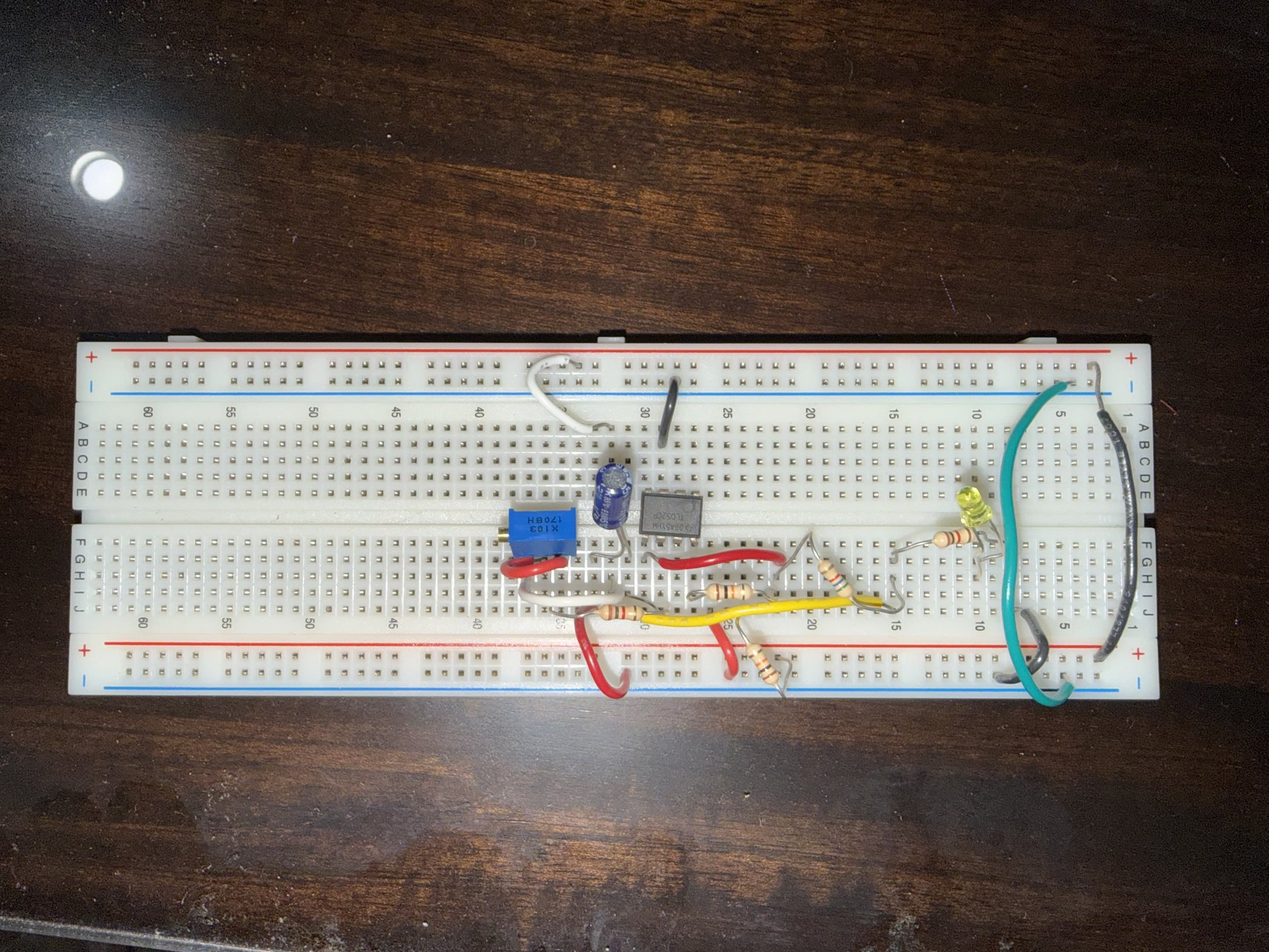
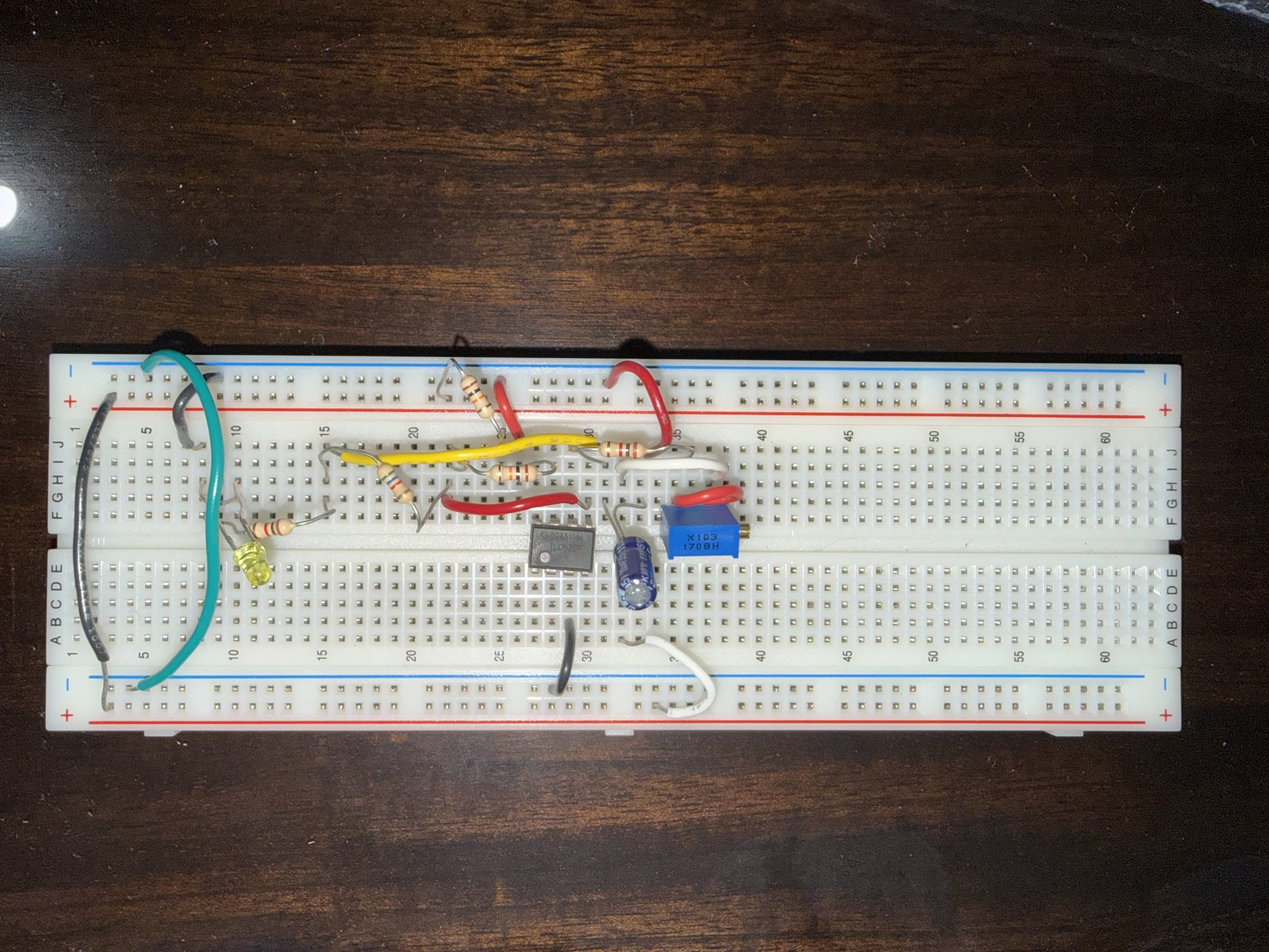
Thandi's board upload: the real broken board, fix and Edison's answers (#17)
Uploading Thandi's photo (thandi-board-1/2/3.jpg in ~/Downloads, or the
original HEICs) is recognised by its SHA-256: after the corner taps it builds
the board as photographed (U1 turned around and 2 columns off, V- unwired),
Edison's first answer names both mistakes, and asking it to fix gives the
canned fix (delete U1, place it at e32 facing left, a29 -> tn_29).
Lean pass at Aarmen's call: lint, unit (3135), the 6 photo specs (38/38),
the chat specs and a real-browser walk; no full browser run.

Closes #17

diff --git a/Plugged/circuit3d/samples/samples.js b/Plugged/circuit3d/samples/samples.js
@@ -112,9 +112,10 @@ window.PhotoSamples = {
       { tool: 'add_wire', from: 'g41', to: 'h58', color: 'green' },
     ],
   },
-  // Thandi's real board (#17), the photoexample op-amp blinker as she built it.
-  // PLACEHOLDER board and text until the decode of her photo: docs/boards/README.md's
-  // list with R4 at i20–i23 (ground j23 → bn_23) and pin 4's j17 → bn_17 left out.
+  // Thandi's real board (#17), the photoexample op-amp blinker as she built it,
+  // decoded from her photos (the file is a 2048-px copy of IMG_2013): U1 turned
+  // around and 2 columns off, and pin 4 with no wire to ground. fix turns U1
+  // around at e32 and adds a29 → tn_29.
   'thandi-blinker': {
     file: 'samples/thandi-blinker.jpg',
     cols: 63,
@@ -130,35 +131,39 @@ window.PhotoSamples = {
     credit: 'Photo: Thandi',
     board: [
       { tool: 'place_battery' },
-      { tool: 'place_tl072', hole: 'f14', direction: 'right' },
-      { tool: 'place_potentiometer', hole: 'f9', direction: 'right', resistance: 10000 },
-      { tool: 'place_capacitor', holeA: 'g15', holeB: 'g13', capacitance: '100µF' },   // holeA the + lead
-      { tool: 'place_resistor', holeA: 'i11', holeB: 'i15', resistance: 1000 },
-      { tool: 'place_resistor', holeA: 'e20', holeB: 'f20', resistance: 10000 },
-      { tool: 'place_resistor', holeA: 'h20', holeB: 'h24', resistance: 10000 },
-      { tool: 'place_resistor', holeA: 'i20', holeB: 'i23', resistance: 10000 },
-      { tool: 'place_resistor', holeA: 'g24', holeB: 'g27', resistance: 1000 },
-      { tool: 'place_led', holeA: 'h28', holeB: 'h27', color: 'red' },                // holeA the cathode
+      { tool: 'place_tl072', hole: 'f27', direction: 'right' },                     // as photographed: turned around, 2 columns off
+      { tool: 'place_potentiometer', hole: 'e37', direction: 'left', resistance: 10000 },
+      { tool: 'place_capacitor', holeA: 'd31', holeB: 'd33', capacitance: '100µF' },
+      { tool: 'place_resistor', holeA: 'a36', holeB: 'a31', resistance: 1000 },
+      { tool: 'place_resistor', holeA: 'a22', holeB: 'a19', resistance: 10000 },
+      { tool: 'place_resistor', holeA: 'c22', holeB: 'c17', resistance: 5600 },
+      { tool: 'place_resistor', holeA: 'b26', holeB: 'b22', resistance: 10000 },
+      { tool: 'place_resistor', holeA: 'd15', holeB: 'd10', resistance: 1000 },
+      { tool: 'place_led', holeA: 'c8', holeB: 'c10', color: 'yellow' },            // holeA the cathode
       { tool: 'add_wire', from: 'BAT1.0', to: 'tp_1', color: 'red' },
-      { tool: 'add_wire', from: 'BAT1.1', to: 'tn_2', color: 'black' },
-      { tool: 'add_wire', from: 'tp_13', to: 'a14', color: 'red' },
-      { tool: 'add_wire', from: 'tn_18', to: 'a17', color: 'black' },
-      { tool: 'add_wire', from: 'tp_21', to: 'a20', color: 'red' },
-      { tool: 'add_wire', from: 'b15', to: 'b16', color: 'green' },
-      { tool: 'add_wire', from: 'tp_30', to: 'bp_30', color: 'red' },
-      { tool: 'add_wire', from: 'tn_29', to: 'bn_29', color: 'black' },
-      { tool: 'add_wire', from: 'g10', to: 'g11', color: 'green' },
-      { tool: 'add_wire', from: 'h9', to: 'h14', color: 'blue' },
-      { tool: 'add_wire', from: 'g16', to: 'g20' },
-      { tool: 'add_wire', from: 'j14', to: 'j24', color: 'blue' },
-      { tool: 'add_wire', from: 'j13', to: 'bn_14', color: 'black' },
-      { tool: 'add_wire', from: 'j23', to: 'bn_23', color: 'black' },
-      { tool: 'add_wire', from: 'j28', to: 'bn_27', color: 'black' },
+      { tool: 'add_wire', from: 'BAT1.1', to: 'tn_1', color: 'black' },
+      { tool: 'add_wire', from: 'bp_3', to: 'tp_3', color: 'black' },
+      { tool: 'add_wire', from: 'bn_4', to: 'tn_5', color: 'green' },
+      { tool: 'add_wire', from: 'bp_34', to: 'j32', color: 'white' },
+      { tool: 'add_wire', from: 'bn_28', to: 'i29', color: 'black' },
+      { tool: 'add_wire', from: 'd35', to: 'd36', color: 'red' },
+      { tool: 'add_wire', from: 'c32', to: 'b37', color: 'white' },
+      { tool: 'add_wire', from: 'a33', to: 'tn_31', color: 'red' },
+      { tool: 'add_wire', from: 'd30', to: 'd22', color: 'red' },
+      { tool: 'add_wire', from: 'a32', to: 'a15', color: 'yellow' },
+      { tool: 'add_wire', from: 'a26', to: 'tn_25', color: 'red' },
+      { tool: 'add_wire', from: 'a8', to: 'tn_9', color: 'black' },
+      { tool: 'add_wire', from: 'b19', to: 'tp_19', color: 'white' },
+      { tool: 'add_wire', from: 'b17', to: 'b15', color: 'white' },
     ],
-    explain: 'Two things are off: … (placeholder)',
+    explain: "Two things keep this blinker dark:\n\n1. **U1 is turned around and 2 columns off.** Its dot (pin 1) should face the potentiometer, at e32. Where it sits now, pin 8 (V+) and pin 4 (V−) land in empty columns, so the op-amp gets no power.\n2. **Pin 4 (V−) has no wire to ground.** Even turned the right way, it needs a wire to the − rail.\n\nAsk me to fix it and I'll turn U1 around and add the wire.",
     fix: {
-      reply: "Here's the fix: … (placeholder)",
-      actions: [{ tool: 'add_wire', from: 'j17', to: 'bn_17', color: 'black' }],
+      reply: "Here's the fix: I turn U1 around and move it so pin 1 sits at e32, then wire pin 4 (V−) to the − rail (a29 → tn_29). Accept, then Run: the op-amp gets its ±supply and the LED lights.",
+      actions: [
+        { tool: 'delete_part', part: 'U1' },
+        { tool: 'place_tl072', hole: 'e32', direction: 'left' },
+        { tool: 'add_wire', from: 'a29', to: 'tn_29', color: 'black' },
+      ],
     },
   },
   piranha: {
